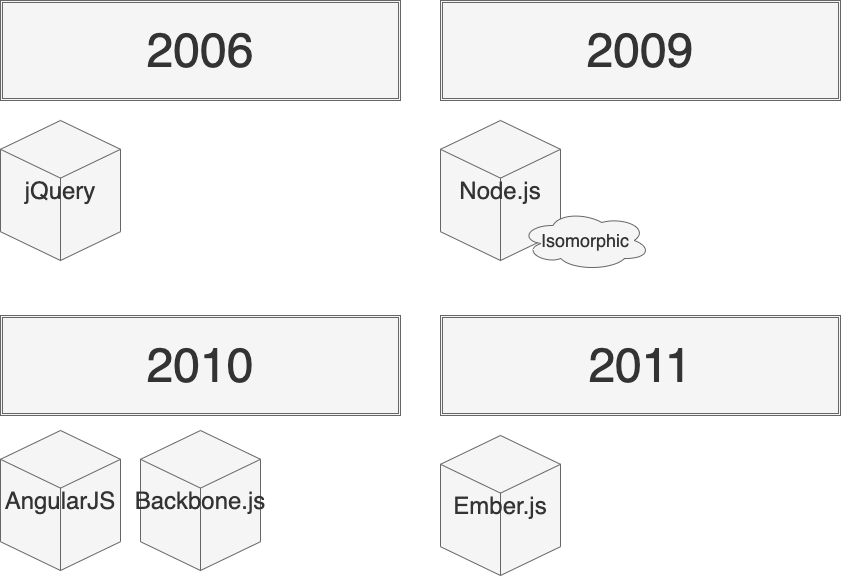
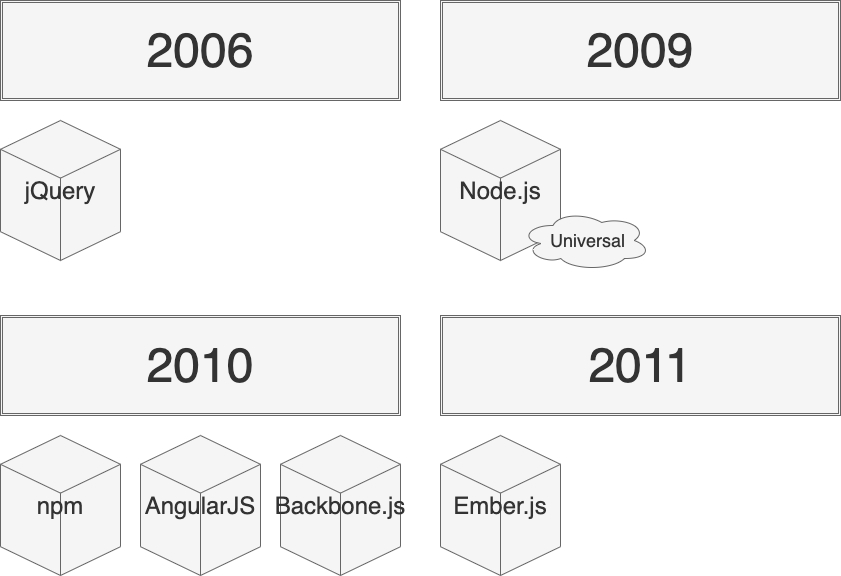
😎 Brashup contents

diff --git a/contents/02_history_of_frontend_software.md b/contents/02_history_of_frontend_software.md
@@ -2,12 +2,31 @@
 
 ![02_history_of_frontend_software_1](../assets/images/drawio/02_history_of_frontend_software_1.png)
 
-あいうえお。
+[2006年、jQueryの誕生](https://en.wikipedia.org/wiki/JQuery)により、フロントエンドの開発は加速する。
+主に、次の2つがjQueryの素晴らしいところだ。
+
+* DOM操作やイベント処理が容易
+* ブラウザ間の非互換性をサポート
+
+[2009年、Node.jsが誕生](https://en.wikipedia.org/wiki/Node.js)した。
+Node.jsは、V8Javascriptエンジン上に構築されたJavascript実行環境の1つである。
+サーバサイドでJavascriptを動かすことができるため、 Universal JavaScript（Isomorphic JavaScript）が実現できる。
+つまり、クライアントもサーバサイド両方ともJavascriptで構築できるということだ。
+イベント駆動型プログラミング言語であるNode.jsは、[C10K問題](https://en.wikipedia.org/wiki/C10k_problem)を解決する。
+
+[2010年、npmが誕生](https://en.wikipedia.org/wiki/Node.js)した。
+フロントエンドパッケージの中央リポジトリであり、現在100万を超えるパッケージがある。
+
+jQueryの開発の加速後、課題が見えてきた。一貫したデータの管理・処理する機能がないところだ。
+AngularJS、Backbone.js、Ember.jsのようなクライアントサイドにおけるMVCアーキテクチャが話題となる。
+AngularJSから、AngularJS2への移行に互換性がないため、Angularユーザは激怒した。
 
 ![02_history_of_frontend_software_2](../assets/images/drawio/02_history_of_frontend_software_2.png)
 
-かきくけこ。
+[2012年、Bowerが誕生](https://github.com/bower/bower/blob/master/CHANGELOG.md)した。
+Bowerは、フロントエンドにおけるパッケージマネージャーを管理する。
+執筆当時（2021年3月時点）のBower公式によると、YarnやWebpackを使用することをお勧めされている。
+
+[2013年、Reactが誕生](https://en.wikipedia.org/wiki/React_%28JavaScript_library%29)した。
 
 ![02_history_of_frontend_software_3](../assets/images/drawio/02_history_of_frontend_software_3.png)
-
-さしすせそ。

diff --git a/contents/01_history_of_web_standardization.md b/contents/01_history_of_web_standardization.md
@@ -8,15 +8,15 @@ Webの始まりは、1960年代からとなる。
 ![01_history_of_web_standardization_1](../assets/images/drawio/01_history_of_web_standardization_1.png)
 
 [1991年、HTMLが誕生](https://en.wikipedia.org/wiki/HTML)する。
-その当時、WebサーバからHTMLをHTTP通信で返却するだけの構成だった。
+当時のWebは、WebサーバからHTMLをHTTP通信で返却するだけの構成だった。
 
 [1993年、Common Gate Interface（CGI）が誕生](https://en.wikipedia.org/wiki/Common_Gateway_Interface)する。
 CGIにより、ブラウザの要求をソフトウェアで処理できるようになった。
-結果、純粋にHTMLを返却していたところが、動的に処理したHTMLを返却できるため、より高度なコンテンツを提供できる。
-CGIよりもっとも普及したのが、PHPの存在だ。
+結果、純粋にHTMLを返却していたところが、動的に処理したHTMLを返却でき、より高度なコンテンツの提供が可能となる。
+CGIでもっとも普及したのが、PHPだ。
 
 [1994年、CSSが誕生](https://en.wikipedia.org/wiki/CSS#Difficulty_with_adoption)した。
-1994年以前は、HTMLのレイアウトは実現できていたが、HTMLの構造とレイヤウトを分離できていなかった。
+1994年以前は、ドキュメントのレイアウトは実現できていたが、ドキュメントの構造とレイアウトを分離できていなかった。
 [カスケードスタイルであるCSS](https://developer.mozilla.org/en-US/docs/Web/CSS/Cascade)を使い、その問題を解消した。
 
 [1995年、Javascript（旧：LiveScript）が誕生](https://en.wikipedia.org/wiki/JavaScript)した。
